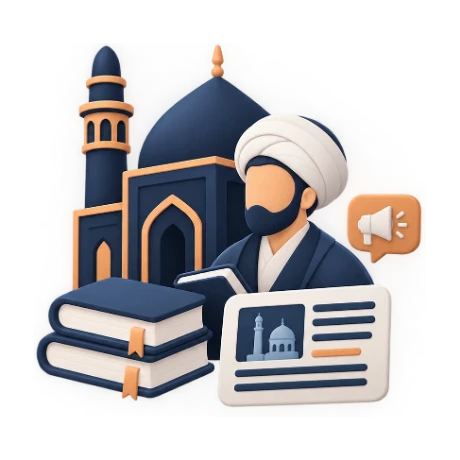
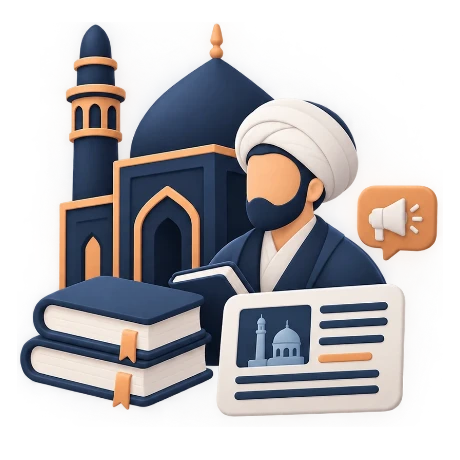
آیکون «درباره حوزه» هماندازهی چهار آیکون دیگه + CACHE سرویسورکر v2 (۵.۷.۱)
Claude-Session: https://claude.ai/code/session_01Ub5EZD3pGumghPXTmujfSS

Changed region(s): [[0.0304, 0.0304, 0.9739, 0.913]]

diff --git a/design/ita-monitoring-prototype.html b/design/ita-monitoring-prototype.html
@@ -1482,7 +1482,7 @@
       <div class="lv-content">
         <h1>سامانه هوشمند جریان</h1>
         <p>رصد و تحلیل فضای سیاسی اجتماعی<br>به روایت حوزه علمیه خراسان</p>
-        <span class="badge" style="margin-top:16px;display:inline-block;font-family:'IRANSansX',Tahoma,sans-serif;color:var(--accent);border-color:rgba(234,179,147,0.32);background:rgba(234,179,147,0.08);">ویرایش <span class="app-version">۵.۷.۰</span></span>
+        <span class="badge" style="margin-top:16px;display:inline-block;font-family:'IRANSansX',Tahoma,sans-serif;color:var(--accent);border-color:rgba(234,179,147,0.32);background:rgba(234,179,147,0.08);">ویرایش <span class="app-version">۵.۷.۱</span></span>
       </div>
     </div>
     <div class="login-panel">
@@ -2491,7 +2491,7 @@
         <div class="app-footer-brand">
           <b class="app-footer-title">سامانه هوشمند جریان</b>
           <span class="app-footer-tagline">رصد و تحلیل فضای سیاسیاجتماعی</span>
-          <small>ویرایش <span class="app-version">۵.۷.۰</span></small>
+          <small>ویرایش <span class="app-version">۵.۷.۱</span></small>
         </div>
         <div class="app-footer-org">
           <div class="afo-item">
@@ -6936,7 +6936,7 @@
 
   // شمارهی ویرایش — تنها جای تعریفش همینه (صفحهی ورود + فوتر از اینجا پر
   // میشن). با هر تغییری که منتشر میشه، عدد آخر یکی بالا میره (CLAUDE.md).
-  const APP_VERSION = '5.7.0';
+  const APP_VERSION = '5.7.1';
   document.querySelectorAll('.app-version').forEach(el=>{ el.textContent = toFaDigits(APP_VERSION); });
 
   // ---- boot ----

diff --git a/design/sw.js b/design/sw.js
@@ -3,7 +3,7 @@
 // دادهها همیشه زنده بمونن. فایلهای ثابت همدامنه (فونت/تصویر/کتابخونه/آیکون)
 // cache-first؛ خودِ صفحه network-first تا هر انتشار جدید فوراً دیده بشه.
 // با تغییر فهرست فایلهای ثابت یا منطق این فایل، CACHE رو یک شماره بالا ببر.
-const CACHE = 'jarian-static-v1';
+const CACHE = 'jarian-static-v2';
 const PRECACHE = [
   'ita-monitoring-prototype.html',
   'manifest.webmanifest',

diff --git a/CLAUDE.md b/CLAUDE.md
@@ -8,7 +8,7 @@
 - ریپو (۲ مهر ۱۴۰۵، بعد از دسترسی غیرمجاز به لینک قدیمی) از `meghdad158mf/meghdad` به **`meghdad158mf/vt42-qxr8-hn`** تغییر نام داد. ابزارهای MCP گیتهاب این سشن با `owner=meghdad158mf, repo=meghdad` کار میکنن (ریدایرکت میشه)؛ `vt42-qxr8-hn` مستقیم رد میشه.
 - هارنس معمولاً یه شاخهی قدیمی رو لوکال چکاوت میکنه — همیشه اول `git fetch origin claude/new-project-8ekywm` و کار رو از `origin/claude/new-project-8ekywm` شروع کن.
 - **روش کار همیشگی**: شاخهی کاری از `origin/claude/new-project-8ekywm` → تغییر → پیشنمایش Playwright با دادهی موک (پایینتر) → اسکرینشات با `SendUserFile` و **پرسیدن صریح تأیید** → فقط بعد از تأیید: commit + push + PR به `claude/new-project-8ekywm` (نه `main`) → `pull_request_read`/`get_commits` → merge → `git fetch` + `git diff` صفر → به کاربر بگو Ctrl+F5. **push مستقیم به `claude/new-project-8ekywm` مسدوده**.
-- **شمارهی ویرایش (درخواست صریح کاربر)**: هر PR به شاخهی زنده ثابت `APP_VERSION` (درست قبل از `// ---- boot ----` در فرانتاند؛ بج صفحهی ورود و فوتر از کلاس `.app-version` پر میشن) رو بالا میبره. تشخیص اندازه با Claude: تغییر کوچیک (باگ، متن/ظاهر، تنظیم جزئی، فقط مستندات/اسکریپت) → عدد آخر +۱؛ تغییر بزرگ (قابلیت/تب/بخش جدید، بازطراحی صفحه، جدول/migration جدید) → عدد وسط +۱ و آخر صفر؛ عدد اول فقط با درخواست کاربر. ⚠ نسخهی فارسیِ داخل دو `<span class="app-version">` هم باید همزمان عوض بشه (fallback قبل از اجرای JS). بعد از مرج شمارهی جدید رو به کاربر بگو. آخرین: **۵.۷.۰**.
+- **شمارهی ویرایش (درخواست صریح کاربر)**: هر PR به شاخهی زنده ثابت `APP_VERSION` (درست قبل از `// ---- boot ----` در فرانتاند؛ بج صفحهی ورود و فوتر از کلاس `.app-version` پر میشن) رو بالا میبره. تشخیص اندازه با Claude: تغییر کوچیک (باگ، متن/ظاهر، تنظیم جزئی، فقط مستندات/اسکریپت) → عدد آخر +۱؛ تغییر بزرگ (قابلیت/تب/بخش جدید، بازطراحی صفحه، جدول/migration جدید) → عدد وسط +۱ و آخر صفر؛ عدد اول فقط با درخواست کاربر. ⚠ نسخهی فارسیِ داخل دو `<span class="app-version">` هم باید همزمان عوض بشه (fallback قبل از اجرای JS). بعد از مرج شمارهی جدید رو به کاربر بگو. آخرین: **۵.۷.۱**.
 - کاربر با گیت/GitHub راحت نیست — هر کار دستی (SQL Editor، ساخت توکن، secret) رو قدمبهقدم و با مسیر دقیق منو توضیح بده.
 - دیباگ خطاهای سمت کاربر: F12 → Network → درخواست قرمز → تب Response (اگه DevTools زود پاک کرد، Clear و یهبار دیگه امتحان). اگه کاربر عکسی رو مستقیم در چت paste کرد و به دستت نرسید، اول ترنسکریپت سشن (`.jsonl`، بلوکهای base64) رو بگرد، بعد درخواست پیوست کن.
 
@@ -100,7 +100,7 @@ design/ita-monitoring-prototype.html — فرانتاند تکفایلی (
 
 - **اخبار حوزه** (تنها تب فعال؛ قبلاً زیرتب «اخبار و رویدادها»): `setHawzaTab('news')`/`goToHawzaTab()`. ⚠ از همون `#news-study-panel` «اخبار و رویدادها» استفاده میکنه — `placeNewsStudyPanel('hawza'|'overview')` **خودِ عنصر** رو بین `#hawza-news-slot` و جای اصلیش (یه comment نشانگر) جابهجا میکنه (کپی نه، تا idها تکراری نشن)؛ `setNewsPageTab()` همیشه پنل رو برمیگردونه و تب فعلی رو در `NEWS_CURRENT_TAB` نگه میداره؛ `switchSection('overview')` همون تب رو دوباره اعمال میکنه تا `newsState.platform` از `hawza` برگرده. منطق مشترک پنل در `activateNewsStudy(platform)`. `goToNewsTab('hawza')` (لینکهای قدیمی) به همین بخش ریدایرکت میشه.
 - **درباره حوزه** («بهزودی»، دکمهی disabled): اخباری که دربارهی حوزه گفته میشه — هنوز پیاده نشده.
-- آیکون `images/domain-icon-hawza.webp` (۴۶۰×۴۶۰، از تصویر کاربر برشخورده). `.domain-grid` حالا flex با کارت ۱۷۰px (گوشی: دو ستونه، کارت پنجم وسط).
+- آیکون `images/domain-icon-hawza.webp` (۴۶۰×۴۶۰، از تصویر کاربر برشخورده؛ ارتفاع محتوا ~۴۰۵px مثل بقیه — نسخهی اول ۳۶۳px بود و کوچیکتر دیده میشد). `.domain-grid` حالا flex با کارت ۱۷۰px (گوشی: دو ستونه، کارت پنجم وسط).
 
 ### «کنشگری مجازی» (`sec-posts`) — ۳ تب
 
@@ -141,7 +141,7 @@ design/ita-monitoring-prototype.html — فرانتاند تکفایلی (
 
 - ⚠⚠ **هر متن بیرونی (پست، عنوان، نام کانال، کلیدواژه، خروجی هوش مصنوعی، ورودی مدیر) قبل از `innerHTML` باید escape بشه**: `escHtml()`/`escAttr()` (هر پنج کاراکتر `& < > " '`)؛ متن پستها فقط از `claimsTextDisplay()` (escape کامل و فقط `<strong>` ساختهی `collect_bale.py` برمیگرده)؛ لینکها فقط از `safeUrl()` (فقط `http(s)`). دلیل: یه پست آزمایشی با `<img onerror>` روی نسخهی قبلی ۳۰ بار اجرا شد و توکن مدیر توی `sessionStorage`ه. `collect_rss.py` بعد از strip تگها `unescape` میزنه، پس متن RSS میتونه تگ واقعی داشته باشه.
 - **تنبللود کتابخونهها**: `chart.min.js`، `html2canvas.min.js`، `jspdf.umd.min.js` تگ ثابت ندارن — `loadScriptOnce(src)` (کش `SCRIPT_LOADS`) از `renderNewsAnalytics()` و `downloadNewsletter()`. همه در `design/vendor/` محلیان، نه CDN (ادبلاکرها اسکریپتهای دارای «chart» در مسیر رو بیصدا بلاک میکنن). GSAP از cdnjs و ثابته (صفحهی نخست لازمش داره).
-- **PWA**: `manifest.webmanifest`، `sw.js` (فایلهای ثابت cache-first، HTML network-first، دامنههای دیگه رهگیری نمیشن). ⚠ اگه فایل ثابتی با همون اسم عوض شد، `CACHE` در `sw.js` رو یه شماره بالا ببر (الان `jarian-static-v1`). حذف PWA = جایگزینی `sw.js` با نسخهی unregisterکننده، نه فقط حذف فایل. تست نصبپذیری: `launchPersistentContext` (context معمولی incognitoه).
+- **PWA**: `manifest.webmanifest`، `sw.js` (فایلهای ثابت cache-first، HTML network-first، دامنههای دیگه رهگیری نمیشن). ⚠ اگه فایل ثابتی با همون اسم عوض شد، `CACHE` در `sw.js` رو یه شماره بالا ببر (الان `jarian-static-v2` — v2 برای بزرگکردن آیکون `domain-icon-hawza.webp`). حذف PWA = جایگزینی `sw.js` با نسخهی unregisterکننده، نه فقط حذف فایل. تست نصبپذیری: `launchPersistentContext` (context معمولی incognitoه).
 - **موبایل** (زیر ۶۴۰px، بلوک CSS «بازبینی ریسپانسیو موبایل» + «کاهش شلوغی نمای گوشی» انتهای `<style>`): فیلترهای اخبار و پستها پشت دکمهی «فیلترها» (`.m-filter-btn`، `toggleMobileFilters()`، کنترلها با کلاس `.m-collapse`، شمارنده با `updateMobileFilterBadges()` — فیلتر جدید باید هر دو رو بگیره)؛ «جستجوی هوشمند» و گرید/لیست مخفی؛ زیرنویس تب یکخطی؛ ردیف میانبرها مخفی؛ فوتر فشرده؛ فاصلههای بزرگ صفحهی نخست کم؛ `.news-text` با `overflow-wrap:anywhere`. ⚠ `.news-feed.grid-view.social-tab` specificity بالاتری داره و media queryهای خودش رو لازم داره؛ گریدها با `minmax(0,1fr)` نه `1fr`.
 - **سیستم بصری**: کارت روشن (`var(--surface)`) شناور روی بوم تیره؛ کارتهای عرصهی صفحهی نخست بدون قاب؛ برند سرمهای `#16202a` + هلویی `#EAB393`. پیشنهادهای رنگ/فونت اسکیل `ui-ux-pro-max` رو اعمال نکن، فقط چکلیستهاش. مقصد `scrollIntoView` → `scroll-margin-top` روی خودِ عنصر. دراپداونهای `details.news-source-details` نزدیک لبهی راست: به فهرست `inset-inline-start:0` در CSS اضافهشون کن + به هندلر مرکزی بستن با کلیک بیرون.
 
